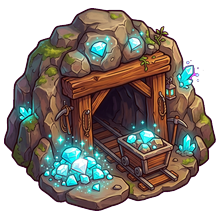
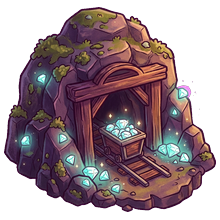
art: yeni sanat yonu ile yenilenen gorseller

diff --git a/sw.js b/sw.js
@@ -1,5 +1,5 @@
 // Çevrimdışı çalışma: kod ve sayfa önce ağdan (güncel sürüm), görseller önce önbellekten.
-const CACHE = 'hexling-v163';
+const CACHE = 'hexling-v164';
 const CORE = ['index.html', 'manifest.webmanifest', 'dist/main.js', 'dist/minis.js', 'dist/game.js', 'dist/data.js', 'dist/audio.js', 'dist/settings.js', 'dist/i18n.js', 'dist/scenery.js', 'dist/version.js', 'dist/billing.js', 'dist/ads.js', 'dist/fight.js', 'dist/hof.js', 'dist/house.js', 'dist/meta.js', 'dist/quests.js', 'dist/story.js', 'dist/tiger.js', 'dist/notify.js', 'dist/mine.js', 'dist/mine3d.js', 'vendor/three.min.js', 'assets/manifest.json', 'assets/title_bg.jpg', 'assets/arena_bg.jpg', 'icons/icon-192.png'];
 
 self.addEventListener('install', (e) => {
